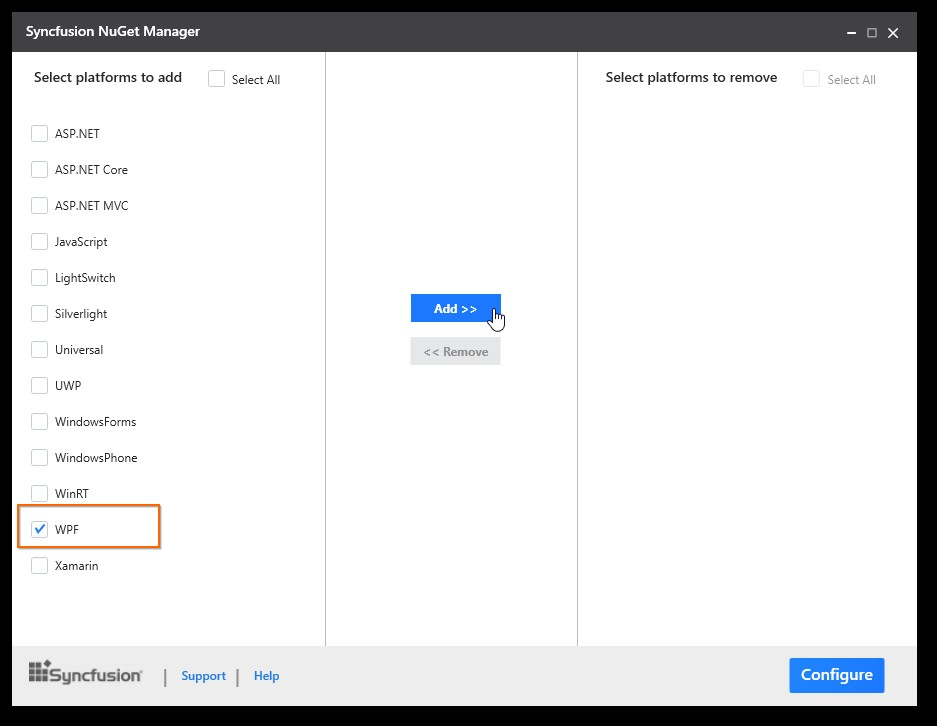
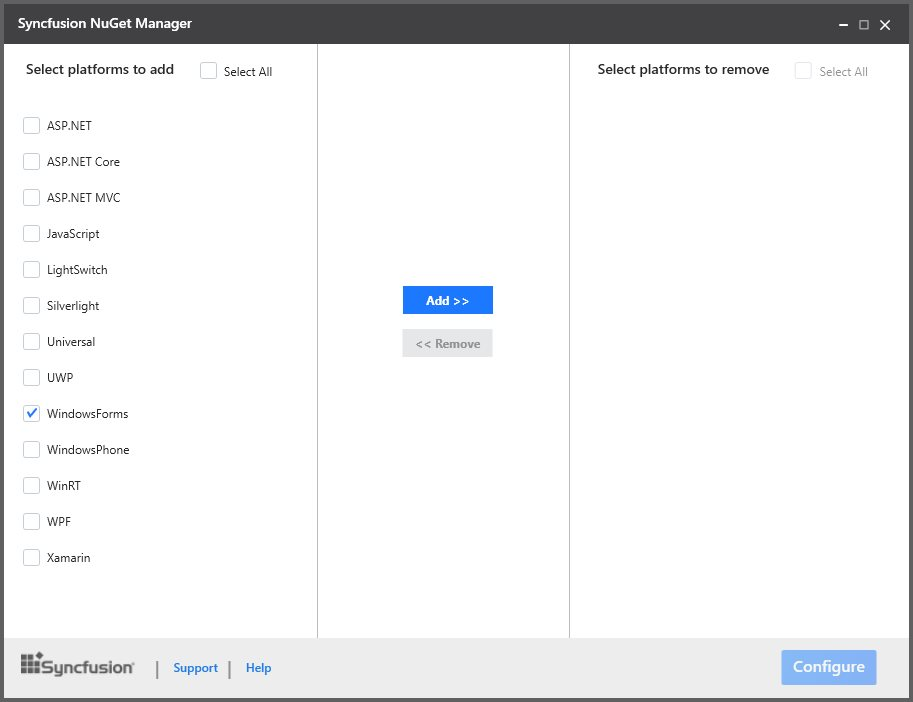
EXT-2153 Modified Syncfusion Nuget Manager Screenshot in NuGet Configuration (WindowsForms)

Changed region(s): [[0.0, 0.0, 1.0, 1.0], [0.4294, 0.3889, 0.552, 0.4487], [0.4294, 0.4786, 0.552, 0.5085]]

diff --git a/WindowsForms/Installation.md b/WindowsForms/Installation.md
@@ -41,7 +41,7 @@ The following steps help you configure Syncfusion NuGet Packages with a URL.
 1. **Syncfusion NuGet Manager** is allows you to **add** the Syncfusion NuGet sources (for available platforms) to NuGet Package Manager. Download the [Syncfusion NuGet Manager](http://www.syncfusion.com/downloads/support/directtrac/general/ze/SyncfusionNugetManager-1610952973.zip) utility.
 2. Extract zip file and run the SyncfusionNuGetManager.exe
 3. Syncfusion NuGet Manager Window will be opened.
-4. Select the platform **WPF** (or required platform) from **“Select platforms to add”** (Left side of the window) column and click **Add>>** button. Then click **Configure** button.
+4. Select the platform **WindowsForms** from **“Select platforms to add”** (Left side of the window) column and click **Add>>** button. Then click **Configure** button.
 
    ![](Installation-And-Deployment_images/Syncfusion_NuGet_Manager_img1.jpg)
 
